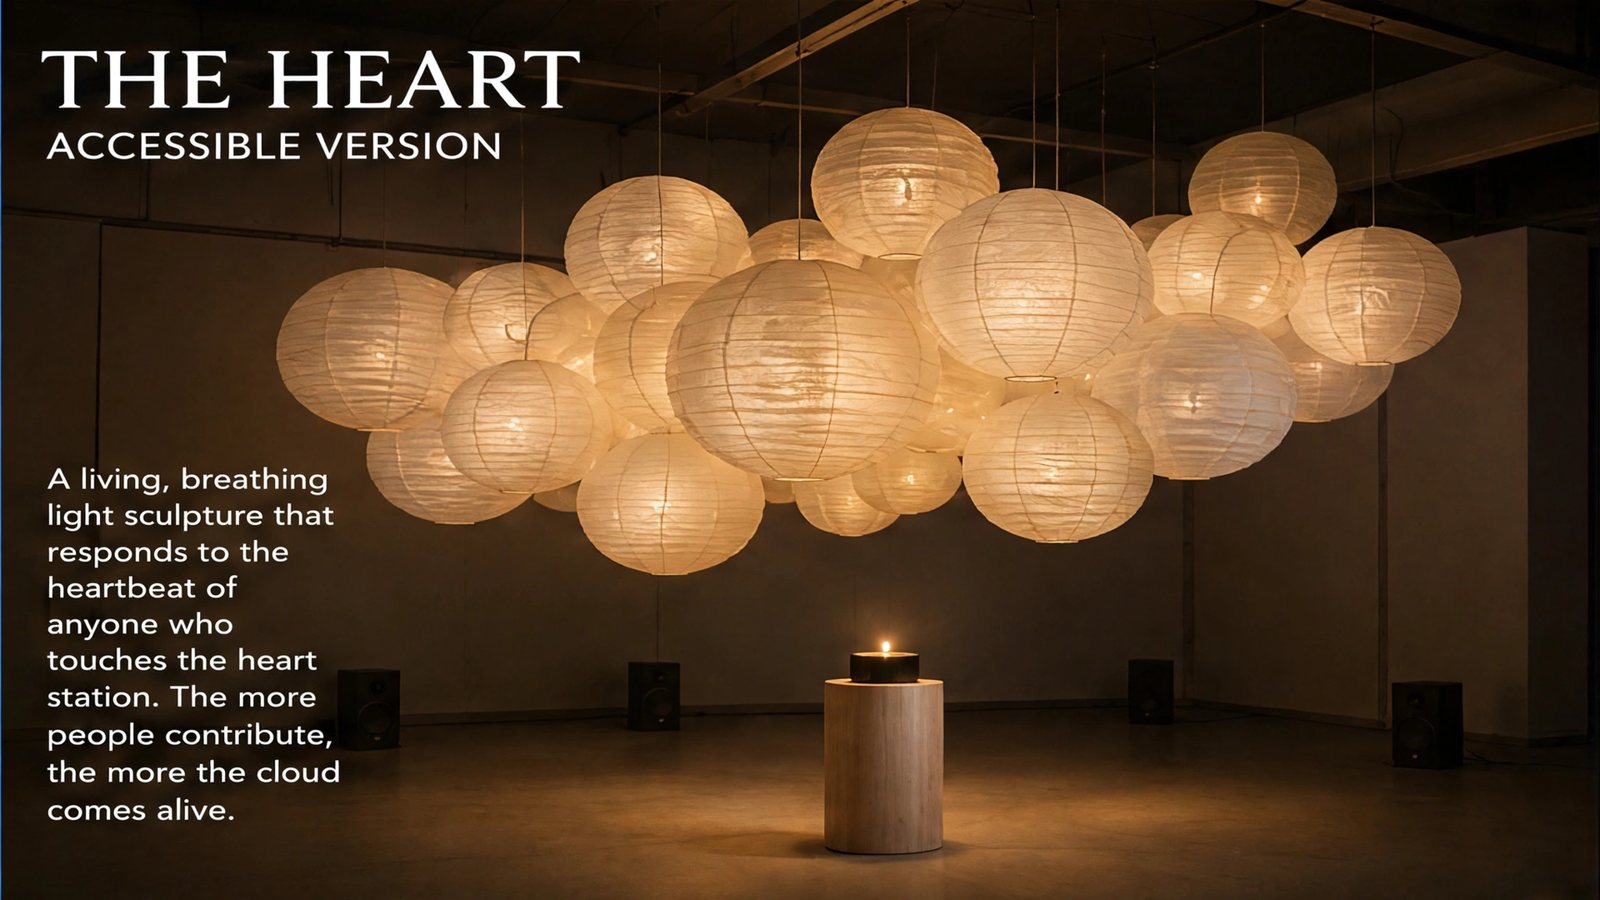
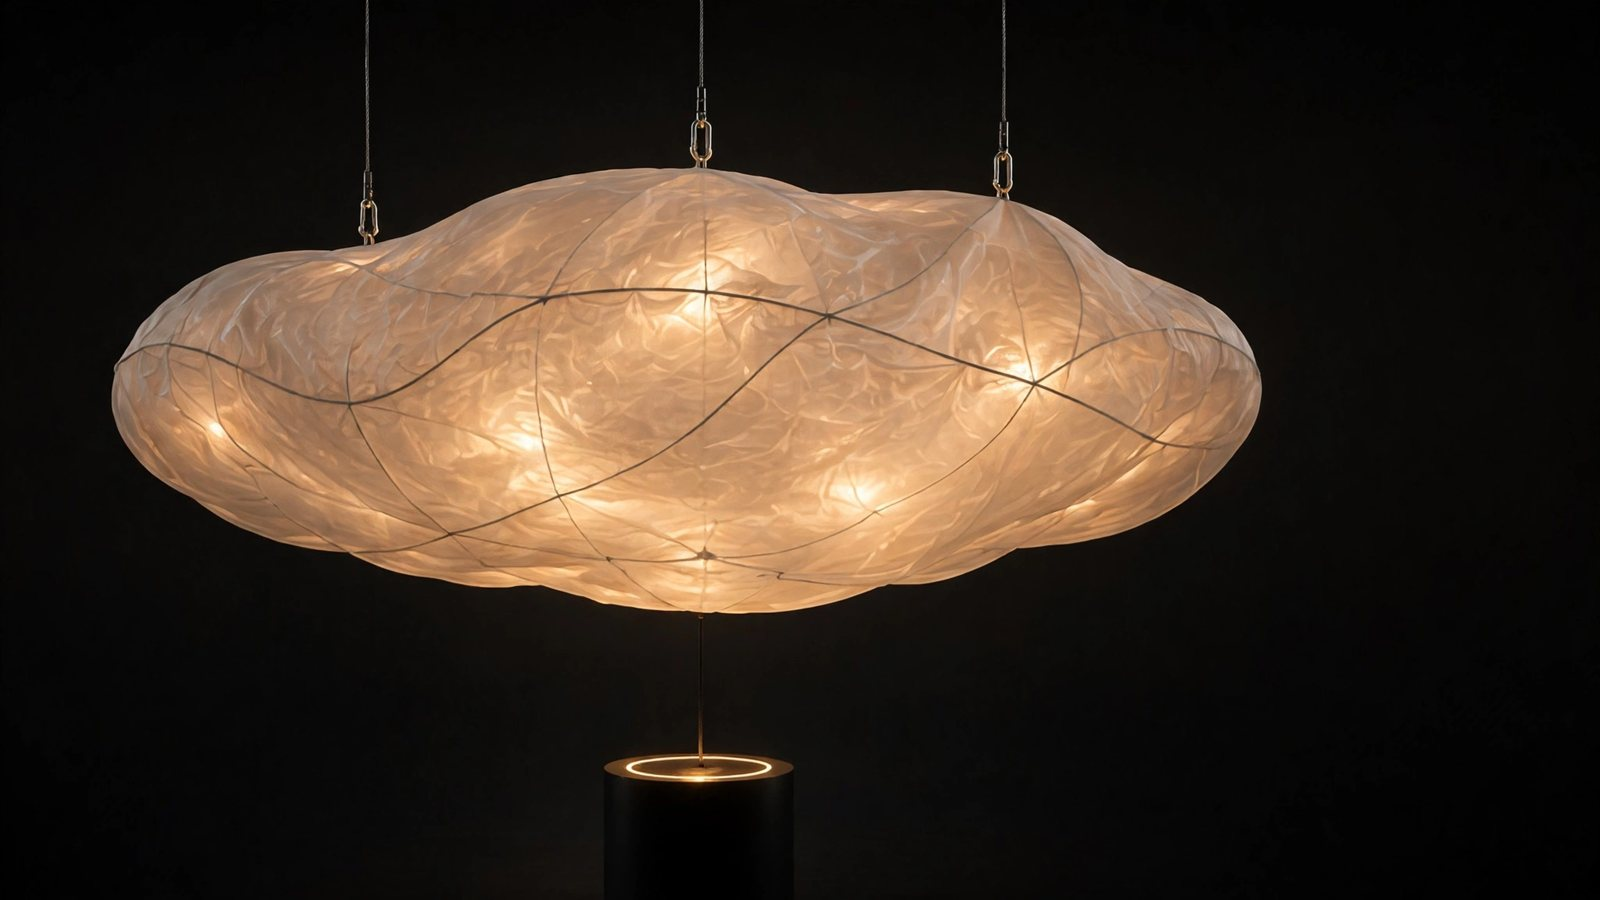
changes to lead magnet

diff --git a/concept.html b/concept.html
@@ -3,12 +3,12 @@
 <head>
   <meta charset="UTF-8">
   <meta name="viewport" content="width=device-width, initial-scale=1.0">
-  <title>Free sculpture concept for your technology — Toucan Creative Technology</title>
-  <meta name="description" content="Answer 8 quick questions about your product and get a free interactive sculpture concept, a technical outline and concept images for your trade-show stand, lobby or launch.">
+  <title>Free interactive sculpture design tool — Toucan Creative Technology</title>
+  <meta name="description" content="Answer 8 quick questions about your product or business and get a free interactive sculpture concept, a technical outline and concept images for your trade-show stand, lobby or launch.">
   <meta name="author" content="Murali Wood">
   <meta name="theme-color" content="#111111">
-  <meta property="og:title" content="Get a free sculpture concept for your technology">
-  <meta property="og:description" content="Answer 8 quick questions. Get an interactive sculpture concept, a technical outline and concept images.">
+  <meta property="og:title" content="Free interactive sculpture design tool">
+  <meta property="og:description" content="Answer 8 quick questions about your product or business. Get an interactive sculpture concept, a technical outline and concept images.">
   <meta property="og:image" content="images/featured/finished-poster.jpg">
 
   <link rel="preconnect" href="https://fonts.googleapis.com">
@@ -37,10 +37,8 @@
     <!-- id="contact" so the menu's "Start a project" link jumps here -->
     <section id="contact" class="tool section">
       <div class="tool-intro">
-        <a class="back-link" href="index.html">← Toucan Creative Technology</a>
-        <span class="label">Free concept tool</span>
-        <h1>Get a free sculpture concept <em>for your technology.</em></h1>
-        <p class="hero-intro">Answer 8 quick questions about your product. You'll get an interactive sculpture concept, a technical outline and concept images for your stand, lobby or launch.</p>
+        <h1>Free <em>interactive sculpture</em> design tool.</h1>
+        <p class="hero-intro">Answer 8 quick questions about your product or business. You'll get an interactive sculpture concept, a technical outline and concept images for your stand, lobby or launch.</p>
         <p class="for-list"><strong>About 3 minutes.</strong> No call, no obligation.</p>
       </div>
 
@@ -59,7 +57,17 @@
           <noscript><p class="tool-nojs">The concept tool needs JavaScript. You can also email <a href="mailto:info@toucancreative.tech">info@toucancreative.tech</a>.</p></noscript>
           <p class="tool-count" aria-live="polite"></p>
 
-          <!-- QUESTION 1 -->
+          <!-- QUESTION 1 (pick one) -->
+          <fieldset class="tool-step" data-type="choice">
+            <legend class="tool-question">Where will the piece live?</legend>
+            <div class="tool-choices">
+              <label class="tool-choice"><input type="radio" name="place" value="Trade-show stand"><span>Trade-show stand</span></label>
+              <label class="tool-choice"><input type="radio" name="place" value="Lobby or office"><span>Lobby or office</span></label>
+              <label class="tool-choice"><input type="radio" name="place" value="Launch event"><span>Launch event</span></label>
+            </div>
+          </fieldset>
+
+          <!-- QUESTION 2 -->
           <fieldset class="tool-step" data-type="text">
             <legend class="tool-question">What does your product do?</legend>
             <p class="tool-hint">One sentence is enough.</p>
@@ -67,23 +75,12 @@
               placeholder="e.g. We make electrolysers that turn solar power into hydrogen."></textarea>
           </fieldset>
 
-          <!-- QUESTION 2 -->
+          <!-- QUESTION 3 -->
           <fieldset class="tool-step" data-type="text">
             <legend class="tool-question">What's hard to see or picture about it?</legend>
             <p class="tool-hint">The thing visitors can't see on the stand.</p>
             <textarea name="invisible" rows="3" maxlength="300" aria-label="What's hard to see or picture about it?"
               placeholder="e.g. The energy flow, a chemical reaction, how precise or how fast it is"></textarea>
-          </fieldset>
-
-          <!-- QUESTION 3 (pick one) -->
-          <fieldset class="tool-step" data-type="choice">
-            <legend class="tool-question">Where will the piece live?</legend>
-            <div class="tool-choices">
-              <label class="tool-choice"><input type="radio" name="place" value="Trade-show stand"><span>Trade-show stand</span></label>
-              <label class="tool-choice"><input type="radio" name="place" value="Lobby or office"><span>Lobby or office</span></label>
-              <label class="tool-choice"><input type="radio" name="place" value="Launch event"><span>Launch event</span></label>
-              <label class="tool-choice"><input type="radio" name="place" value="Several places (touring)"><span>Several places (touring)</span></label>
-            </div>
           </fieldset>
 
           <!-- QUESTION 4 (pick several) -->
@@ -142,15 +139,14 @@
           <!-- LAST STEP: their details -->
           <fieldset class="tool-step" data-type="details">
             <legend class="tool-question">Where should we send your concept?</legend>
-            <p class="tool-hint">Use your work email. We'll send a short code to confirm it.</p>
+            <p class="tool-hint">Only your email is needed. We'll send a short code to confirm it.</p>
             <div class="tool-fields">
               <label class="tool-field"><span>Your name</span><input type="text" name="name" autocomplete="name"></label>
               <label class="tool-field"><span>Company</span><input type="text" name="company" autocomplete="organization"></label>
-              <label class="tool-field"><span>Work email</span><input type="email" name="email" autocomplete="email" inputmode="email"></label>
+              <label class="tool-field"><span>Work email (required)</span><input type="email" name="email" autocomplete="email" inputmode="email"></label>
               <label class="tool-field"><span>Your role</span><input type="text" name="role" autocomplete="organization-title" placeholder="e.g. Head of Marketing"></label>
             </div>
-            <label class="tool-check tool-consent"><input type="checkbox" name="consent" value="yes">
-              <span>I agree that my answers are used to make my concept and to contact me about it. They're never shared or sold.</span></label>
+            <p class="tool-consent">Your answers are used only to make your concept and to contact you about it. They're never shared or sold.</p>
           </fieldset>
 
           <!-- After sending: the code from their email -->

diff --git a/style.css b/style.css
@@ -173,6 +173,8 @@ em { font-style: normal; color: var(--accent-on-light); }
 .hero .frame, .about .frame { aspect-ratio: var(--shape-landscape); max-height: 70vh; }
 .hero > * { margin: 0; max-width: none; }
 .hero h1 { font-size: clamp(3rem, 5.4vw, 5.4rem); line-height: 1; letter-spacing: -.04em; }
+/* "TOUCAN CREATIVE TECHNOLOGY" heading on the home page */
+.hero h1.brand-title { font-size: clamp(2.6rem, 4.6vw, 4.6rem); text-transform: uppercase; letter-spacing: -.01em; line-height: 1.02; }
 .hero-intro { max-width: 580px; margin-top: 28px; font-size: 1.15rem; color: var(--muted); }
 
 
@@ -217,6 +219,10 @@ em { font-style: normal; color: var(--accent-on-light); }
 .slide-text { display: grid; grid-template-columns: 170px 1fr; gap: 20px; padding-top: 18px; }
 .slide-step { font-size: .8rem; font-weight: 700; letter-spacing: .12em; text-transform: uppercase; color: var(--accent-on-light); }
 .slide-text p { margin: 0; color: var(--muted); max-width: 640px; }
+
+/* Featured project on a dark background */
+.dark .featured-meta, .dark .featured-intro > p, .dark .slide-text p { color: #c8c2b8; }
+.dark .slide-step { color: var(--accent); }
 
 /* Round arrow buttons on top of the picture */
 .slider-arrow {
@@ -448,7 +454,7 @@ em { font-style: normal; color: var(--accent-on-light); }
 
 .tool-check { display: flex; gap: 10px; align-items: flex-start; margin-top: 16px; cursor: pointer; color: var(--muted); font-size: .95rem; }
 .tool-check input { width: 18px; height: 18px; margin: 3px 0 0; accent-color: var(--ink); flex: none; }
-.tool-consent { margin-top: 22px; font-size: .88rem; line-height: 1.5; }
+.tool-consent { margin: 22px 0 0; font-size: .88rem; line-height: 1.5; color: var(--muted); }
 
 /* Your details */
 .tool-fields { display: grid; grid-template-columns: 1fr 1fr; gap: 0 14px; }

diff --git a/index.html b/index.html
@@ -36,12 +36,8 @@
     <!-- ===================== TOP OF PAGE ===================== -->
     <section class="hero section">
       <div>
-        <h1>Bringing <em>interactive</em> ideas to life.</h1>
-        <p class="hero-intro">
-          I’m Murali Wood, an embedded systems engineer and creative technical collaborator.
-          I work with artists, designers and creative teams to bring interactive sculptures,
-          installations and physical experiences to life.
-        </p>
+        <h1 class="brand-title">Toucan <em>Creative Technology</em></h1>
+        <p class="hero-intro">Creative technical collaboration for interactive art and physical experiences.</p>
         <div class="actions">
           <a class="button" href="#work">See the work</a>
           <a class="text-link" href="#contact">Start a conversation ↗</a>
@@ -66,7 +62,7 @@
 
     <!-- ===================== FEATURED PROJECT ===================== -->
     <!-- The slides (photos + captions) are in photos-and-videos.js -->
-    <section id="work" class="section">
+    <section id="work" class="section dark">
 
       <div class="featured-intro">
         <div>
@@ -197,7 +193,7 @@
 
 
     <!-- ===================== ABOUT ===================== -->
-    <section id="about" class="about section tint">
+    <section id="about" class="about section">
       <!-- Photo: set "about" in photos-and-videos.js -->
       <figure data-photo="about" class="portrait"></figure>
       <div>

diff --git a/concept-tool.js b/concept-tool.js
@@ -74,9 +74,8 @@ const CONCEPT_SERVER = "";
       return el("no_date").checked || el("date").value ? null : "Please pick a date, or tick \"No date yet\".";
     }
     if (type === "details") {
-      if (!el("name").value.trim() || !el("company").value.trim()) return "Please add your name and company.";
+      // only the email is required here
       if (!/^[^\s@]+@[^\s@]+\.[^\s@]+$/.test(el("email").value.trim())) return "Please check your email address.";
-      if (!el("consent").checked) return "Please tick the box to agree.";
       return null;
     }
     if (type === "code") return /^\d{6}$/.test(el("code").value.trim()) ? null : "Please enter the 6-digit code.";
@@ -148,6 +147,7 @@ const CONCEPT_SERVER = "";
   }
 
   form.addEventListener("submit", e => { e.preventDefault(); goNext(); });
+  form.addEventListener("input", () => { error.textContent = ""; });   // a correction clears the message
   back.addEventListener("click", () => show(Math.max(0, current - 1)));
 
   // Picking a single choice moves straight on
